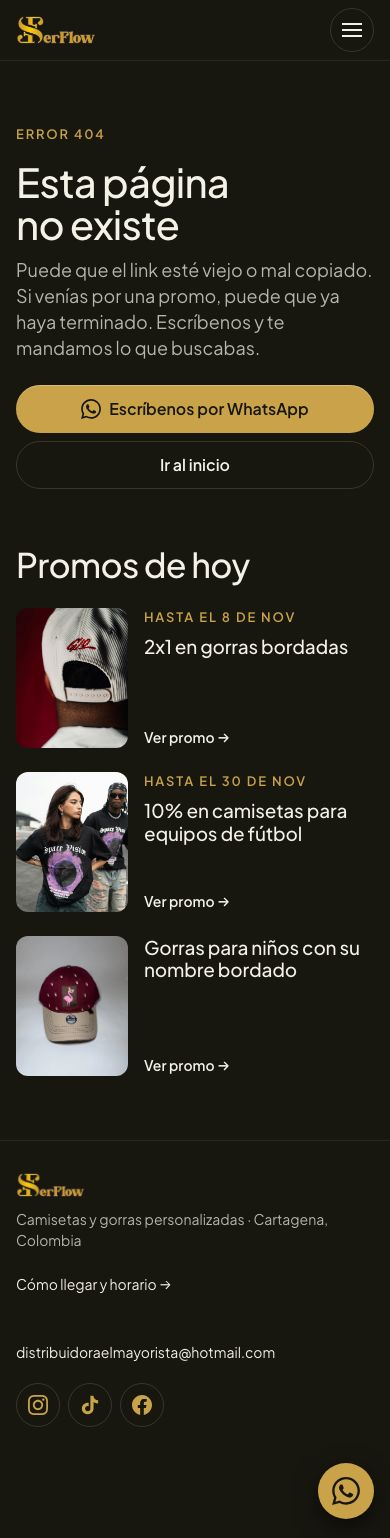
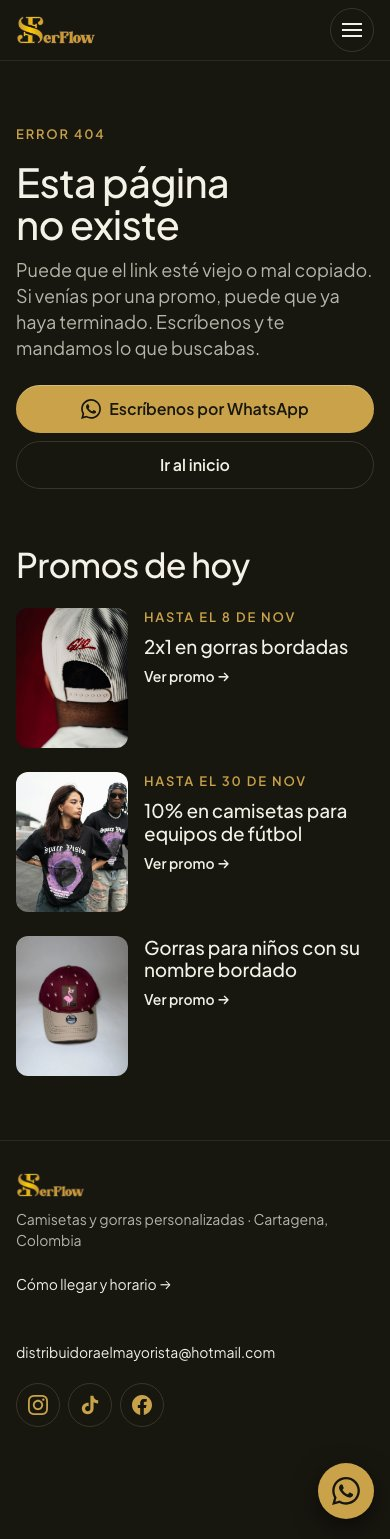
docs: PRI-286 404 promo cards: Ver promo stays under its title on mobile and sits on the card's bottom edge on desktop so a row lines up with uneven descriptions

diff --git a/tempo/designs/canvases/portada-final/pantallas.css b/tempo/designs/canvases/portada-final/pantallas.css
@@ -200,13 +200,13 @@
 @container pf (min-width: 48rem) {
   .pf-404-botones { flex-direction: row; width: auto; }
 }
-/* Celular: el texto toma el alto de la miniatura y Ver promo queda en su borde de abajo, en todas las filas. */
-.sf-r3 .pf .pf-promo-tarjetas a > div { align-items: stretch; }
+/* Celular: Ver promo pegado a su título (8), no empujado al borde de abajo de la miniatura: con la descripción oculta
+   quedaba a 70-95 de él, suelto. Como Qué hacemos en la portada. */
 .sf-r3 .pf .pf-promo-tarjetas a > div > div.flex-1.p-4:last-child { display: flex; flex-direction: column; }
 .sf-r3 .pf .pf-promo-tarjetas a > div > div.flex-1.p-4:last-child > h3:first-child { margin-top: 0; }
-.sf-r3 .pf .pf-promo-tarjetas a > div > div.flex-1.p-4:last-child > span:last-child { margin-top: auto; }
 @container pf (min-width: 48rem) {
   /* Desktop: tarjetas en fila; la sin fecha deja el alto de la etiqueta para que su título quede en la línea de las vecinas. */
   .sf-r3 .pf .pf-promo-tarjetas a > div > div.flex-1.p-4:last-child > h3:first-child { margin-top: calc(var(--pf-pie) * 1.5 + 8px); }
-  .sf-r3 .pf .pf-promo-tarjetas a > div > div.flex-1.p-4:last-child > span:last-child { margin-top: 8px; }
+  /* Ver promo al fondo de la tarjeta (mínimo 8 sobre la descripción): en la misma línea aunque las descripciones midan distinto. */
+  .sf-r3 .pf .pf-promo-tarjetas a > div > div.flex-1.p-4:last-child > span:last-child { margin-top: auto; padding-top: 8px; }
 }
